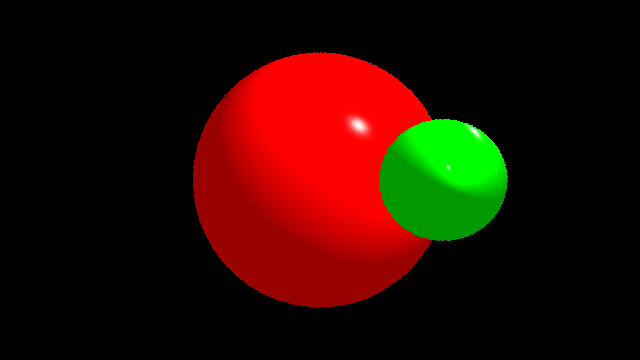
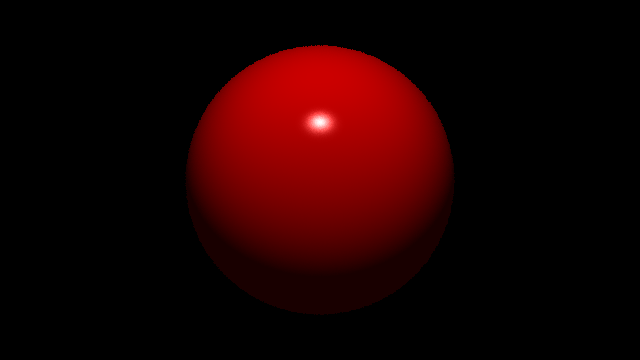
Remove current shadow logic

Changed region(s): [[0.2812, 0.1222, 0.8125, 0.8861]]

diff --git a/main.py b/main.py
@@ -17,26 +17,14 @@ imagePlane = np.array([
 scene = Scene(cameraPos, width, height, imagePlane, 1, np.array([1, 1, 1]))
 
 
-scene.add_hitable(Sphere(centre=np.array([0, 0, 6]), radius=2, material=BlinnPhongMaterial({
-    "ambient": np.array([0.6, 0, 0]),
-    "diffuse": np.array([1, 0, 0]),
-    "specular": np.array([1, 1, 1]),
-    "shininess": 100
-}), _id=0))
-scene.add_hitable(Sphere(centre=np.array([1, 0, 3]), radius=0.5, material=BlinnPhongMaterial({
-    "ambient": np.array([0, 0.6, 0]),
-    "diffuse": np.array([0, 1, 0]),
-    "specular": np.array([1, 1, 1]),
-    "shininess": 100
-}), _id=1))
-"""
-scene.add_hitable(Sphere(centre=np.array([-3, 3, 10]), radius=1, material=BlinnPhongMaterial({
-    "ambient": np.array([0, 0, 0.6]),
-    "diffuse": np.array([0, 0, 1]),
+scene.add_hitable(Sphere(centre=np.array([0, 0, 2]), radius=0.7, material=BlinnPhongMaterial({
+    "ambient": np.array([0.1, 0, 0]),
+    "diffuse": np.array([0.7, 0, 0]),
     "specular": np.array([1, 1, 1]),
     "shininess": 100
 })))
-"""
-scene.add_light(Light(position=np.array([5, 7, 0]), diffuse=np.array([1, 1, 1]), specular=np.array([1, 1, 1])))
+
+
+scene.add_light(Light(position=np.array([0, 5, -3]), diffuse=np.array([1, 1, 1]), specular=np.array([1, 1, 1])))
 
 scene.render("output.png", 3)

diff --git a/hitables/Sphere.py b/hitables/Sphere.py
@@ -2,11 +2,10 @@ from utils import *
 
 
 class Sphere:
-    def __init__(self, centre, radius, material, _id):
+    def __init__(self, centre, radius, material):
         self.centre = centre
         self.radius = radius
         self.material = material
-        self.id = _id
 
     def intersect(self, direction, origin):
         a = np.linalg.norm(direction) ** 2

diff --git a/Scene.py b/Scene.py
@@ -4,7 +4,6 @@ from utils import *
 import beepy
 
 
-# noinspection DuplicatedCode
 class Scene:
     def __init__(self, camera, width, height, image_plane, antialiasing, ambient):
         self.camera = camera
